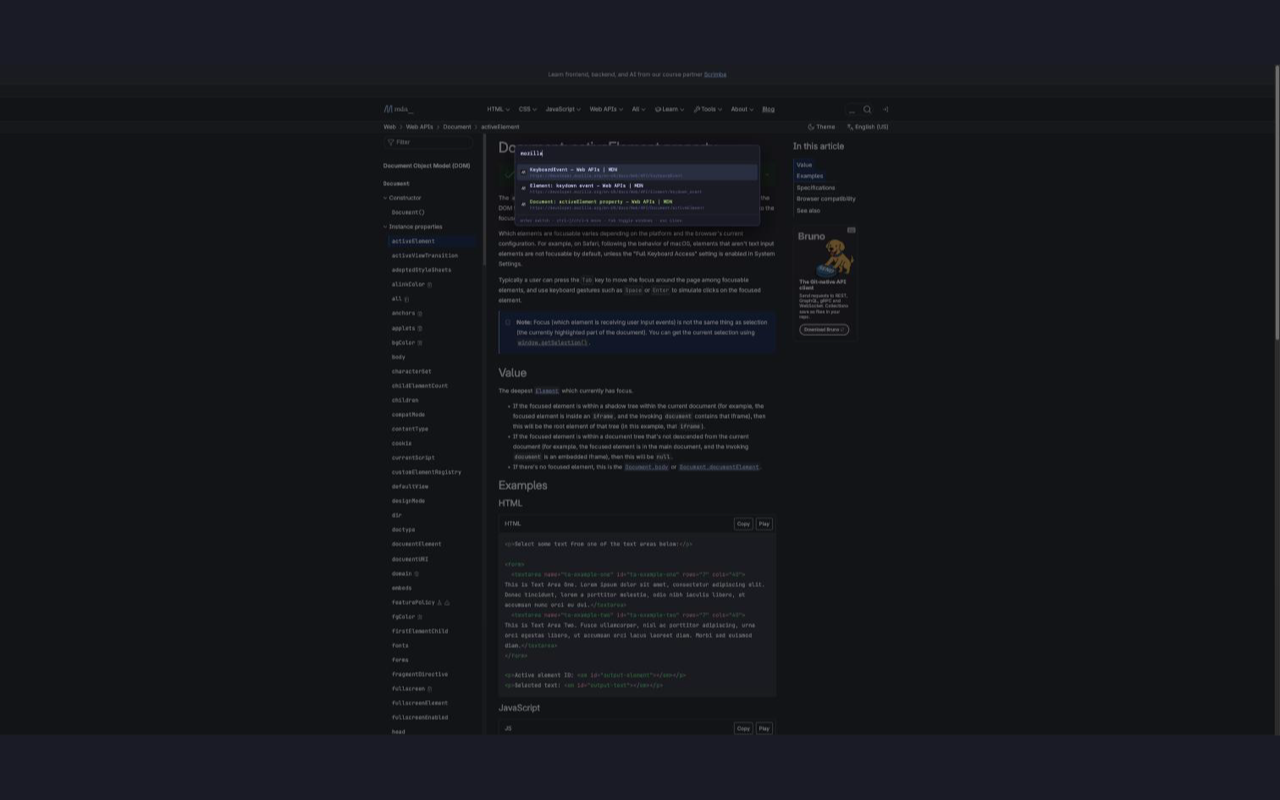
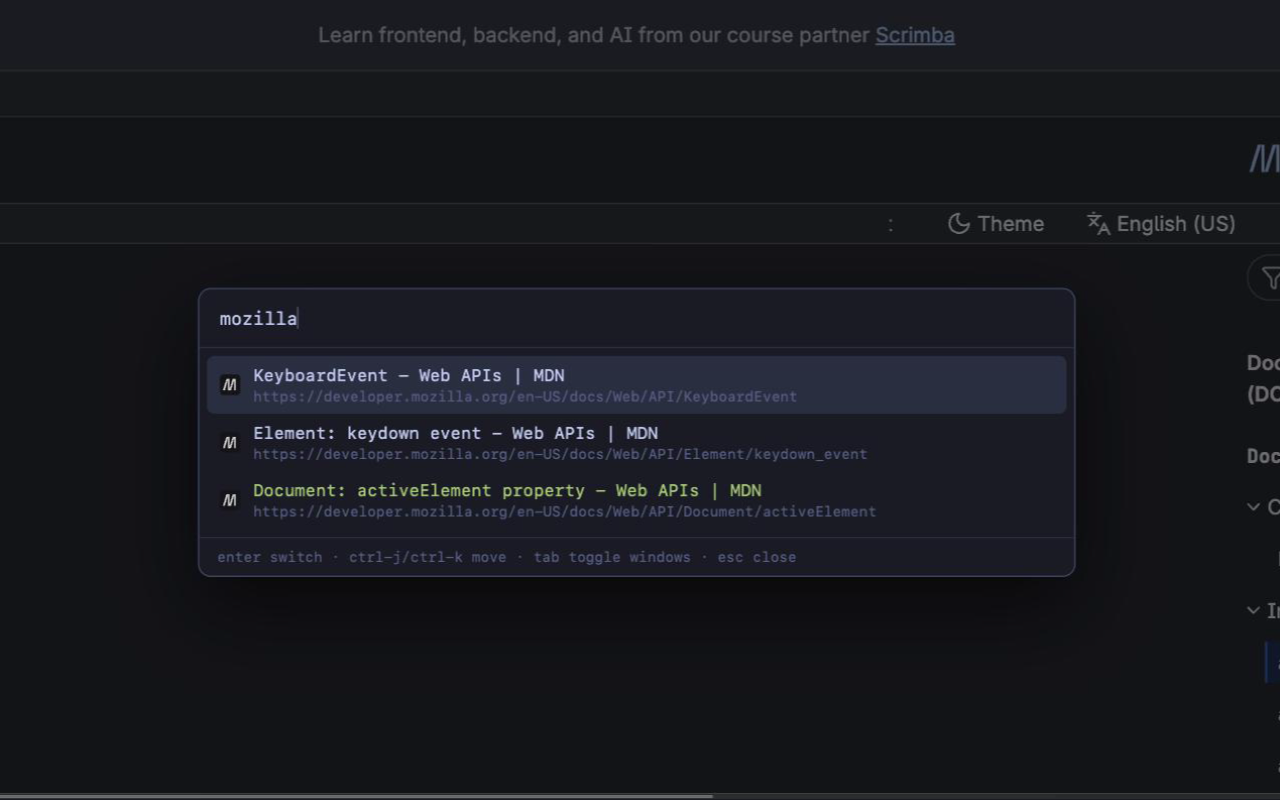
docs: capture screenshots at readable resolution

diff --git a/CHANGELOG.md b/CHANGELOG.md
@@ -3,6 +3,15 @@
 Notable changes, newest first. Follows [Keep a Changelog](https://keepachangelog.com/en/1.1.0/)
 loosely and [semantic versioning](https://semver.org/).
 
+## Unreleased
+
+### Changed
+
+- Screenshots are captured with the page zoomed, so the interface is physically
+  large in a frame the browser caps at about 1512px wide. `make-store-shots.cjs`
+  now crops to the target aspect instead of fitting and padding, which fills the
+  frame and makes the rescale roughly 1:1.
+
 ## 0.1.0 - 2026-08-05
 
 First tag. Load-unpacked only, no store listing.

diff --git a/README.md b/README.md
@@ -135,6 +135,14 @@ node tools/make-promo.cjs <capture> assets/store
 `tools/promo.html` is the cover art. Serve it, capture it at any size, and
 `make-promo.cjs` cuts it into the cover, tile and marquee.
 
+Capturing screenshots: a browser screenshot comes back around 1512px wide
+however large the viewport is, so on a big display the interface is downscaled
+to mush before anything else runs. Zoom the page first, then capture:
+
+```js
+document.documentElement.style.zoom = '3'
+```
+
 ## Changelog
 
 [CHANGELOG.md](CHANGELOG.md).
